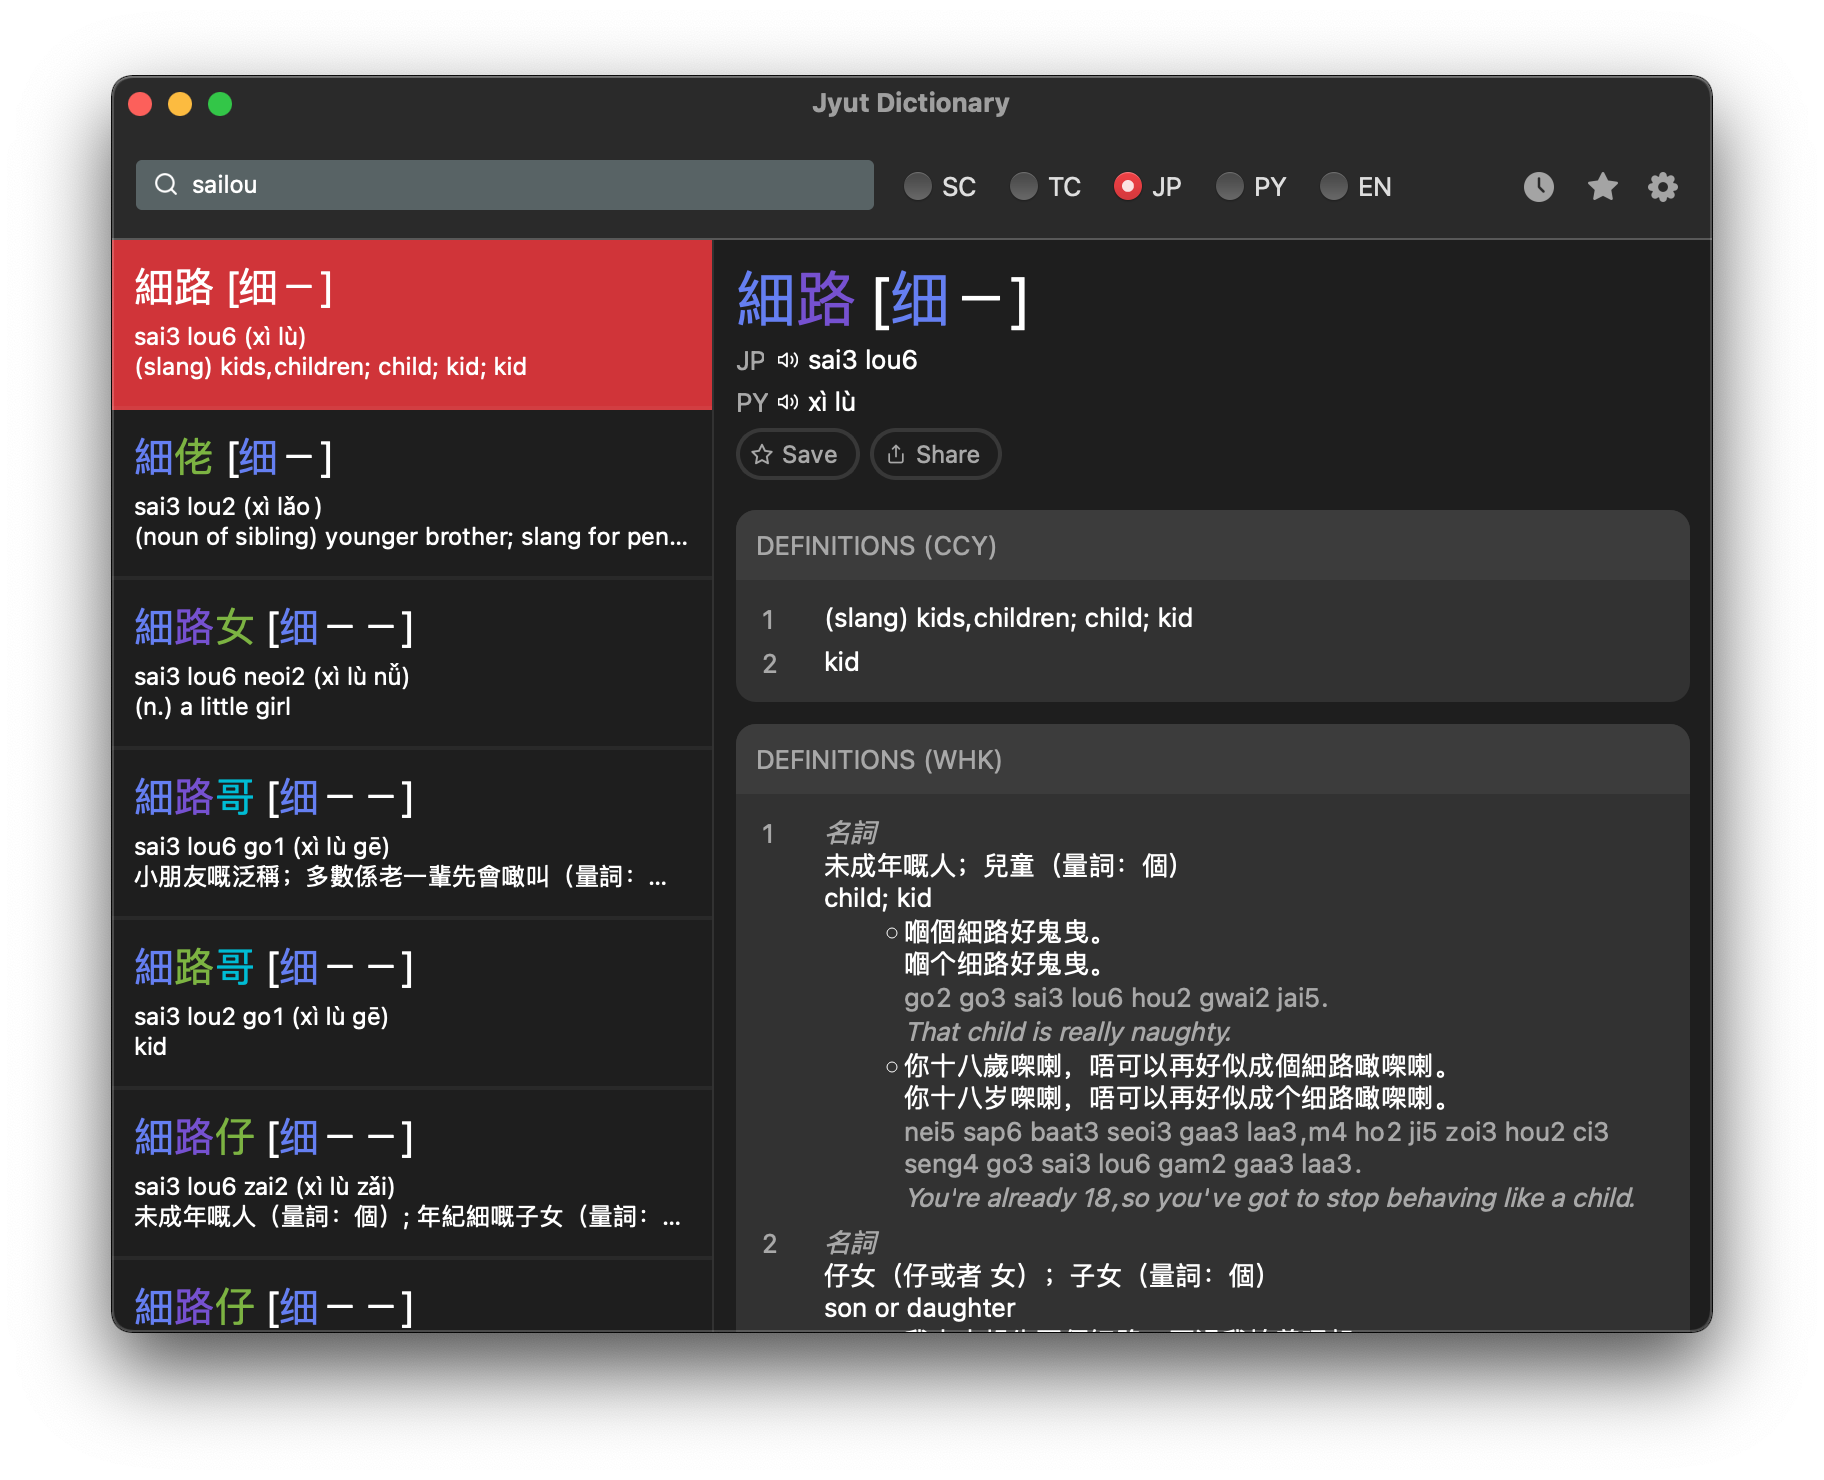
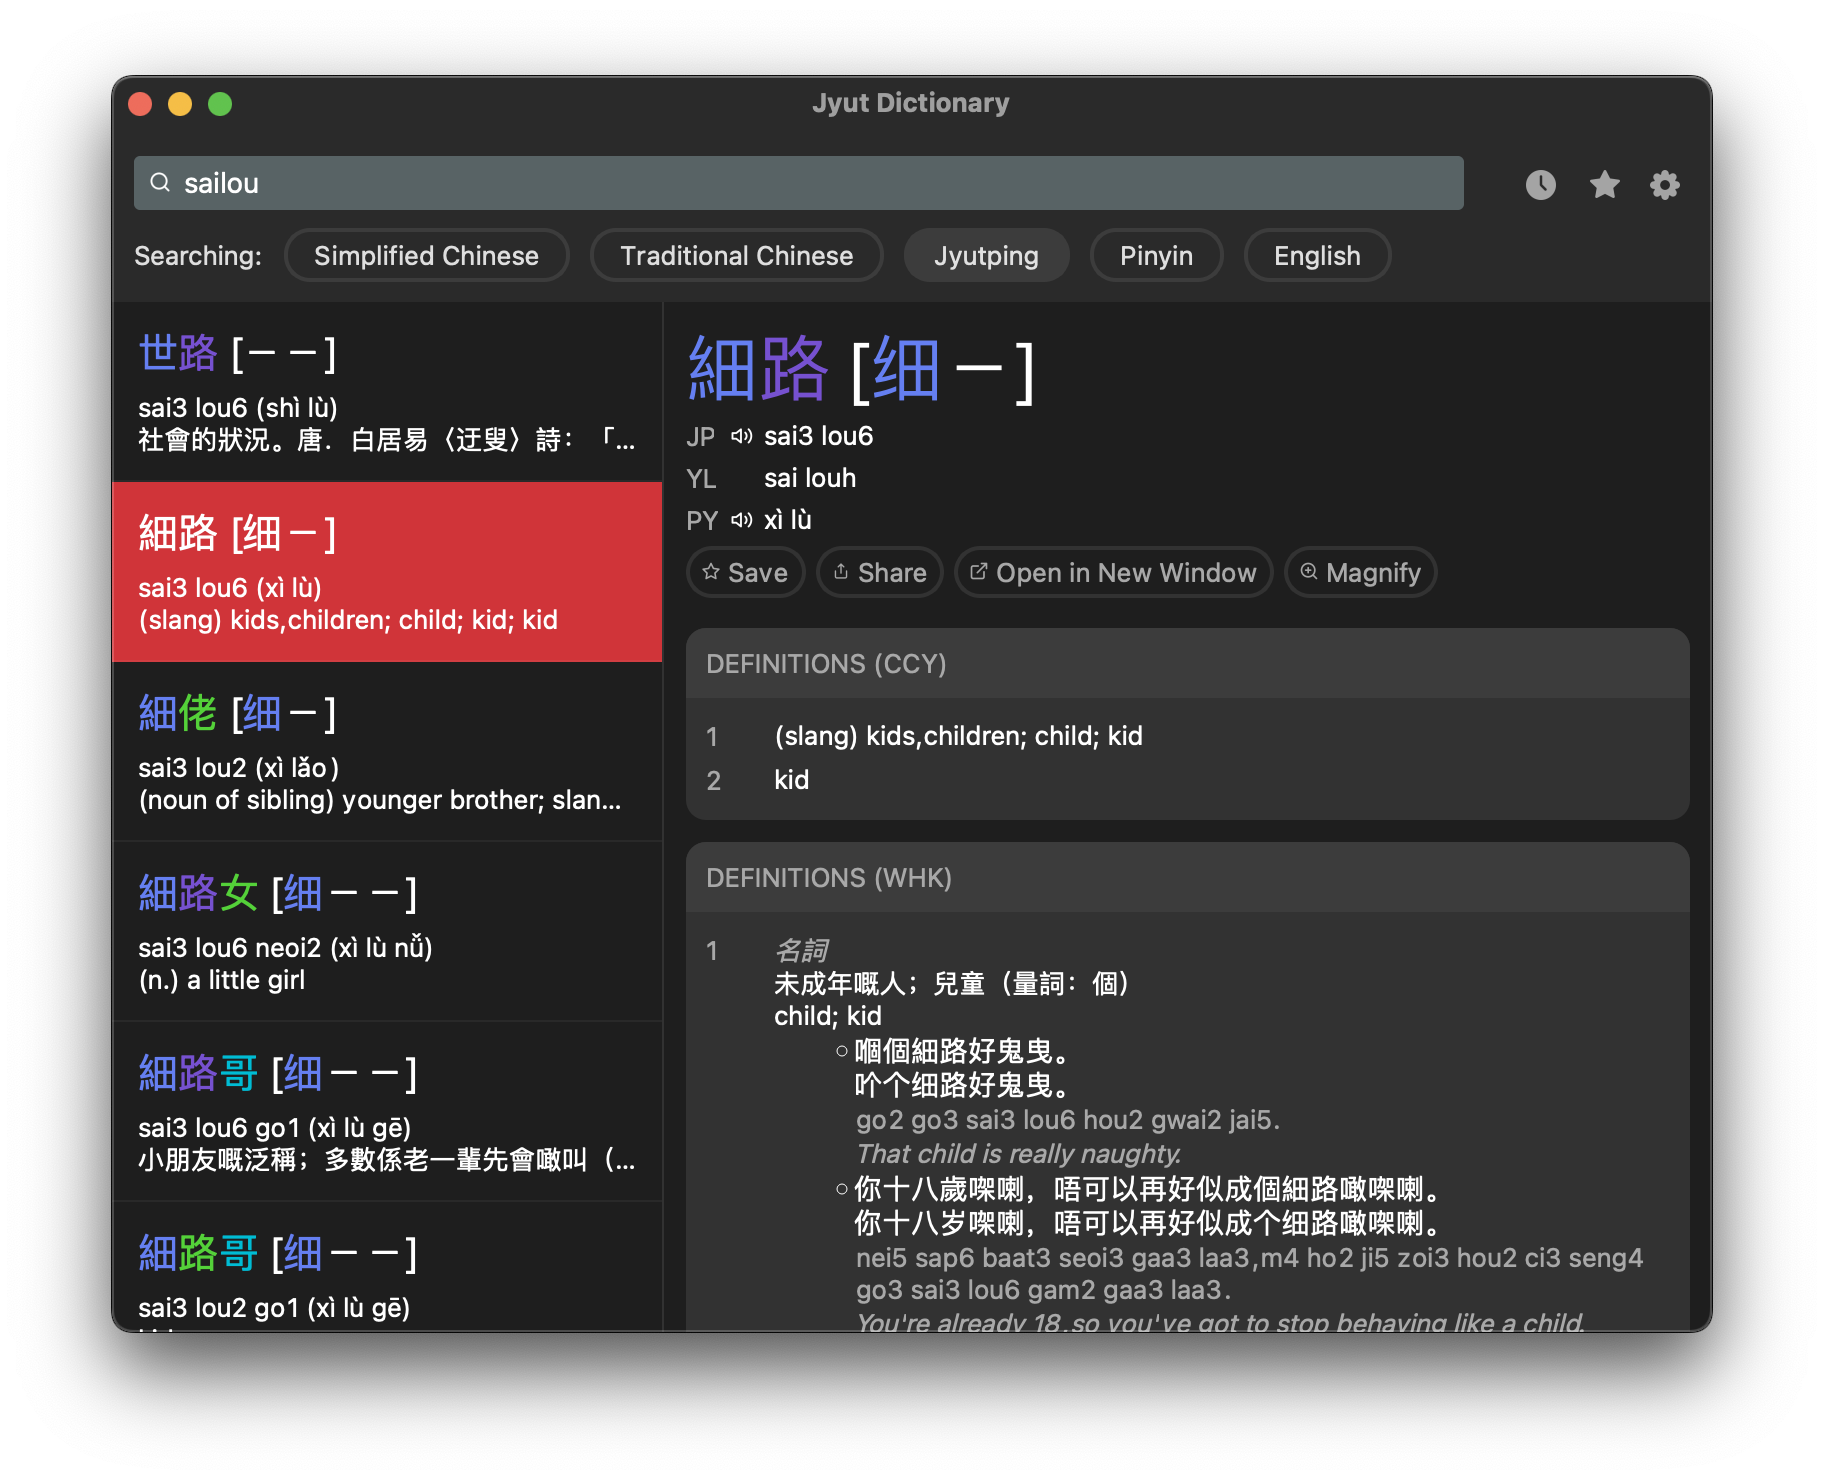
Update screenshots for new version

Changed region(s): [[0.0625, 0.0622, 0.9375, 0.9014], [0.375, 0.5595, 0.9062, 0.9014], [0.4062, 0.4973, 0.5625, 0.5284]]

diff --git a/docs/screenshots/README.md b/docs/screenshots/README.md
@@ -1,0 +1,11 @@
+To capture a video demonstrating usage of the app (**macOS ONLY**):
+  - Option 1: Use OBS, with two sources.
+    - One "Window Capture", with the window set to Jyut Dictionary.
+    - One "Display Capture", set to a monitor with a white background.
+    - Under Settings > Video > Canvas Resolution, set the resolution to the same resolution as a screenshot with border shadowing. (In the current image, that would be 1824x1468.)
+  - Option 2: Use Cleanshot X to capture a video of the Jyut Dictionary screen
+  - Once the video has been captured, use the following command to generate a gif.
+    - `ffmpeg -ss <start time, minutes:seconds> -t <duration, minutes:seconds> -i <generated video file> -vf "fps=30,scale=<width of video>:-1:flags=lanczos,split[s0][s1];[s0]palettegen[p];[s1][p]paletteuse" -loop 0 <output filename>`
+
+To stitch together a GIF using multiple screenshots:
+  - Run `./scripts/create_gif.sh ./<folder containing pngs labelled 1.png, 2.png, etc> <output_name>.mp4 <output_name>.gif
